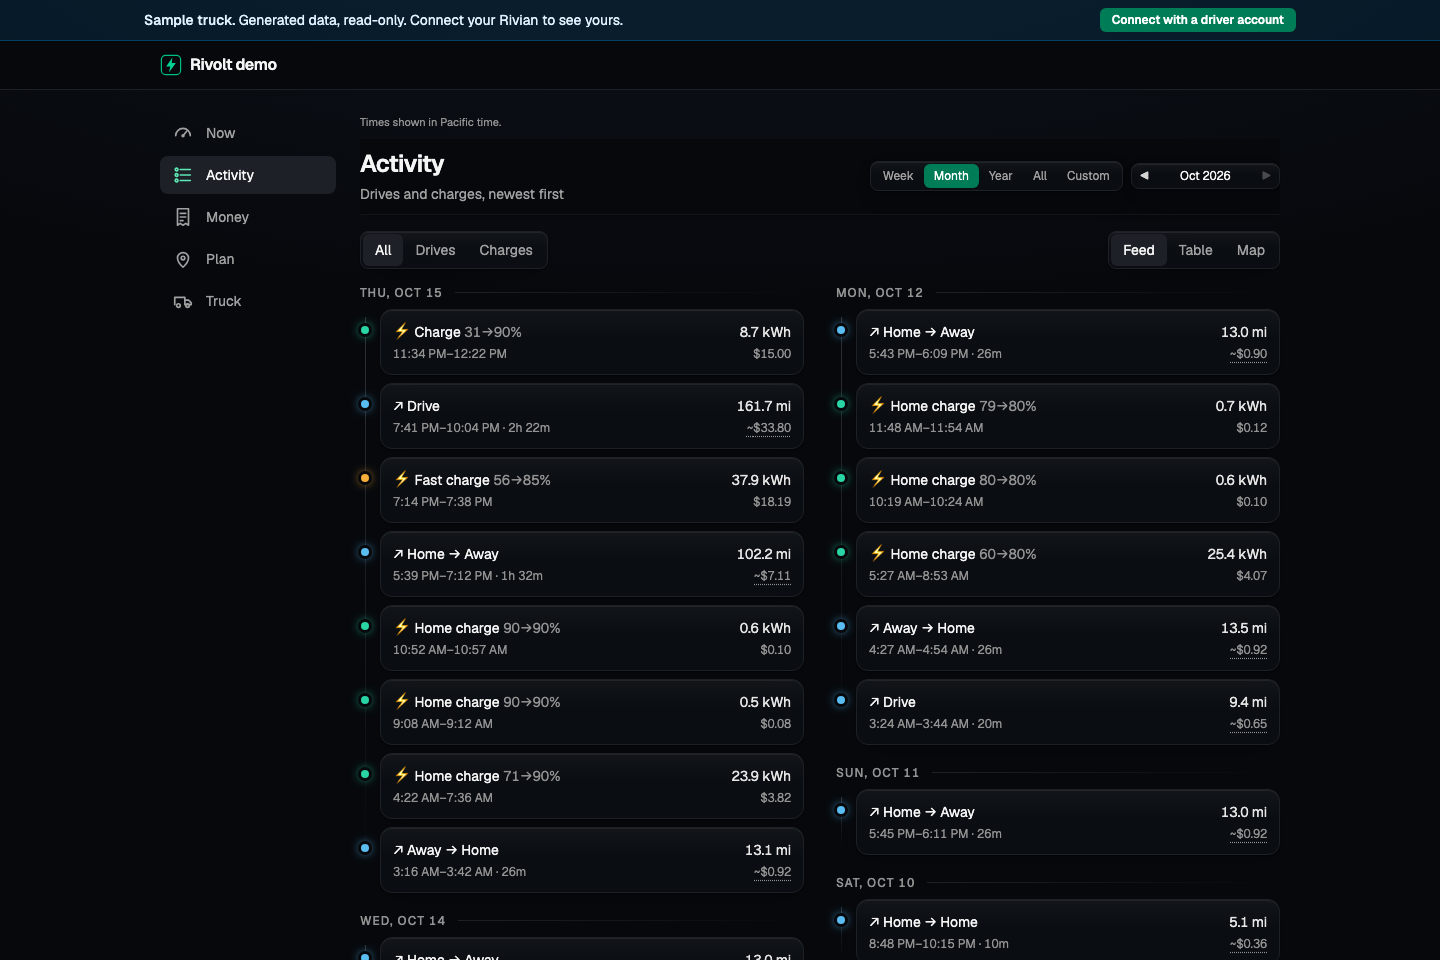
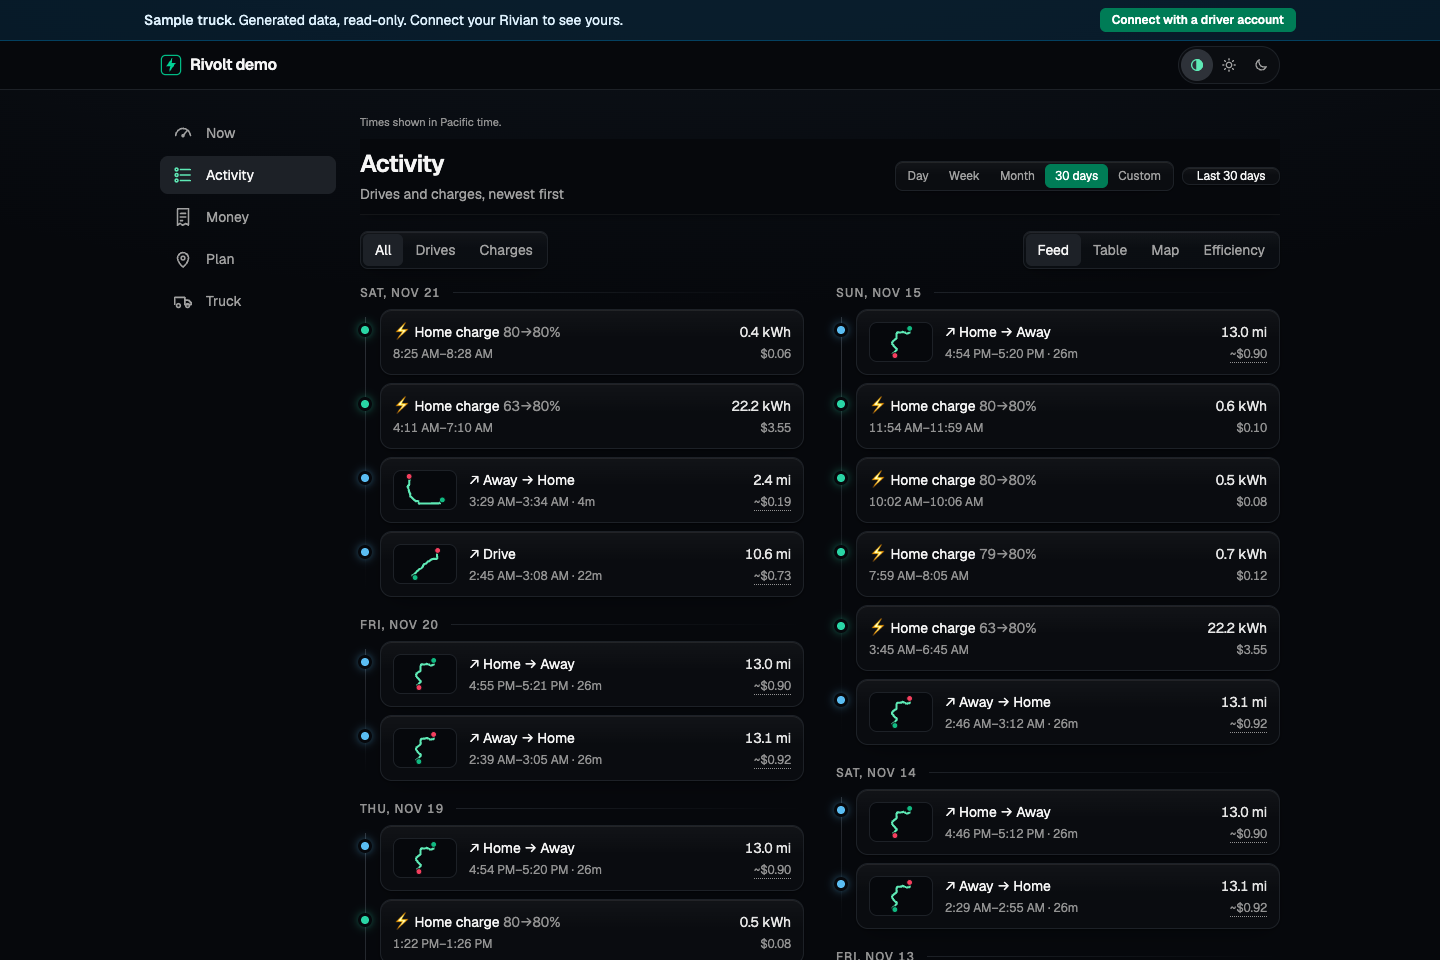
README: retake every screenshot from the live demo; fix radar, trends and capacity text

diff --git a/README.md b/README.md
@@ -144,7 +144,7 @@ signed-in account, so it is not on the demo.
   "Preconditioning". It disappears when the data is stale, so an old
   "Pet mode on" is never read as current.
 
-<img src="docs/screenshots/now-comfort.png" width="390" alt="The comfort line on Now for the demo's sample truck, live only: here just the cabin temperature, 49 degrees Fahrenheit">
+<img src="docs/screenshots/now-comfort.png" width="390" alt="The Now card parked, on the demo's sample truck: battery arc and range, the parked map with the weather, and the cabin temperature, 49 degrees Fahrenheit">
 
 ### Activity — every drive and charge
 
@@ -269,7 +269,7 @@ phone the map is on top and the trip sits in a sheet you drag up.
 
 Radar comes from NOAA and is for general awareness, not for
 safety-critical decisions. Rivolt's own server fetches it, so your phone
-or browser never contacts NOAA. It is not on the signed-out demo.
+or browser never contacts NOAA. The demo's map has the radar button too.
 
 #### Multi-day trips
 
@@ -306,7 +306,7 @@ Every figure in a plan is an estimate built from your own truck's
 efficiency, the route and the chargers along it. Real charging speed,
 weather and traffic will differ.
 
-<img src="docs/screenshots/plan-multiday-phone.png" width="390" alt="Day 1 of the demo's two-day Las Vegas trip on a phone: one charging stop at Barstow, then the overnight at the hotel">
+<img src="docs/screenshots/plan-multiday-phone.png" width="390" alt="The demo's two-day Las Vegas trip on a phone: the trip summary, then Day 1 with its route map and rain radar legend">
 
 ![Plan](docs/screenshots/plan.png)
 
@@ -345,13 +345,14 @@ minute.
 #### Trends
 
 With enough history, Truck shows two trends for your own truck:
-monthly efficiency (pack-side mi/kWh) and the usable pack capacity
-estimated from your charges (not tracked on the R2 yet). Both come
-from your recorded data only and are labelled estimates; they appear
-once there is enough history to say anything, and never compare you
-with other owners.
+monthly efficiency (pack-side mi/kWh) in Trends, and in the Battery
+capacity card the usable capacity your truck reports next to an
+estimate worked out from your charges (not tracked on the R2 yet). Both
+come from your recorded data only and the estimate is labelled; they
+appear once there is enough history to say anything, and never compare
+you with other owners.
 
-<img src="docs/screenshots/trends.png" width="390" alt="Trends for the demo's sample truck: efficiency by month and an estimated usable capacity of about 131 kWh">
+<img src="docs/screenshots/trends.png" width="390" alt="Trends for the demo's sample truck: efficiency by month, with the note that drives with a trailer are left out">
 
 #### Range near a temperature
 
@@ -473,7 +474,7 @@ the lease tracker and the monthly statement email. Setup reminders by
 email stop as soon as Rivolt has data from your truck, and every
 reminder email has a one-click unsubscribe.
 
-<img src="docs/screenshots/first-charge.png" width="390" alt="The first-charge card on the demo's Now tab: 26 kWh and its cost at the home rate, with links to the receipt and Money">
+<img src="docs/screenshots/first-charge.png" width="390" alt="The first-charge card on the demo's Now tab: the kWh and cost of the first charge, its range added marked as an estimate, with links to the receipt and Money">
 <img src="docs/screenshots/three-things.png" width="390" alt="The Three things card: charge-done notifications, lease tracker and monthly statement by email">
 
 ---

diff --git a/docs/screenshots/README.md b/docs/screenshots/README.md
@@ -26,3 +26,5 @@ To refresh them, open the demo with a clean browser profile, pick the
 theme (Settings → Appearance, or the system setting), choose the "Las Vegas
 weekend" sample trip for the Plan shots, and replace the file with the
 same name.
+
+The remaining files (`now-comfort`, `first-charge`, `three-things`, `truck-tires`, `truck-sleep-health`, `trends`, `drain-split`, `share-sheet`, `plan-multiday-phone`) are element or phone-width crops of the same demo pages; retake them the same way when the card changes.
